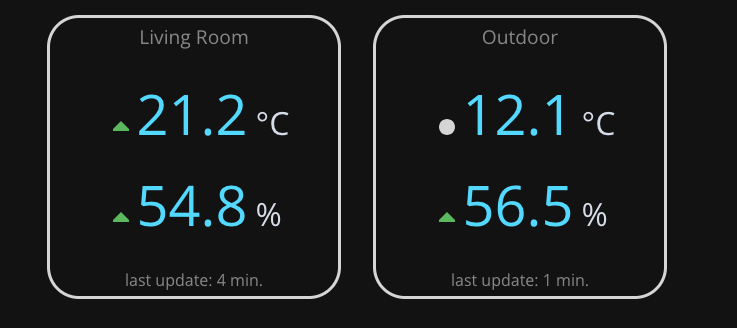
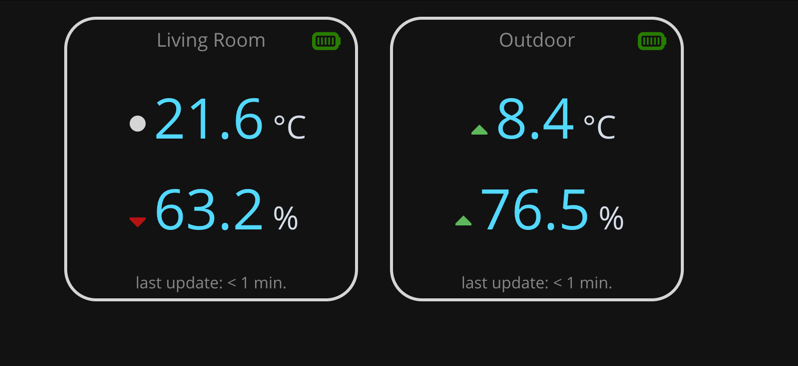
Introduce dynamic battery display

diff --git a/smartapp/src/main/frontend/themes/smarthome/all.css b/smartapp/src/main/frontend/themes/smarthome/all.css
@@ -15,6 +15,9 @@
   --smarthome-font-size-06: 2rem;
   --smarthome-font-size-07: 2.5rem;
   --smarthome-font-size-08: 3.5rem;
+  --smarthome-color-status-ok: #287c01;
+  --smarthome-color-status-warning: #707000;
+  --smarthome-color-status-alert: #830000;
 }
 
 @media (prefers-color-scheme: dark) {
@@ -55,9 +58,15 @@ body {
 .display-title {
   color: var(--smarthome-color-dark-font);
   font-size: var(--smarthome-font-size-04);
+  display: grid;
+  grid-template-columns: 1fr 60% 1fr;
+  padding-top: 0.2rem;
+}
+
+.grid-cell-header {
   display: flex;
   justify-content: center;
-  padding-top: 0.2rem;
+  align-items: center;
 }
 
 .display-footer {
@@ -108,6 +117,10 @@ body {
   height: 1rem;
 }
 
+.image-size-m {
+  width: 1.8rem;
+}
+
 .main {
   display: flex;
   justify-content: center;
@@ -128,6 +141,21 @@ body {
 .left-column, .right-column {
   flex: 1;
 }
+
+.status-ok {
+  color: var(--smarthome-color-status-ok);
+}
+
+.status-warning {
+  color: var(--smarthome-color-status-warning);
+
+}
+
+.status-alert {
+  color: var(--smarthome-color-status-alert);
+}
+
+
 
 @media (max-width: 768px) {
 

diff --git a/smartapp/src/main/java/edu/stevenfil/smart/smartapp/frontend/sensor/SimpleClimateSensorDisplay.java b/smartapp/src/main/java/edu/stevenfil/smart/smartapp/frontend/sensor/SimpleClimateSensorDisplay.java
@@ -26,7 +26,7 @@ public class SimpleClimateSensorDisplay extends Div {
   private Div temperatureContainer;
   private Div humidityContainer;
 
-  private Div displayTitle;
+  private Div displayHeader;
   private Div displayContent;
   private Div displayFooter;
 
@@ -38,8 +38,8 @@ public class SimpleClimateSensorDisplay extends Div {
     addClassNames("flex", "flex-vertical", "flex-grow");
     addClassName("display-item-small");
 
-    displayTitle = new Div();
-    displayTitle.addClassName("display-title");
+    displayHeader = new Div();
+    displayHeader.addClassName("display-title");
 
     displayContent = new Div();
     displayContent.addClassName("display-content");
@@ -47,18 +47,37 @@ public class SimpleClimateSensorDisplay extends Div {
     displayFooter = new Div();
     displayFooter.addClassName("display-footer");
 
-    add(displayTitle, displayContent, displayFooter);
+    add(displayHeader, displayContent, displayFooter);
 
     var title = new Span("Display Title");
-    displayTitle.add(title);
 
     var dynamicTitle = new DynamicStringValue(title);
 
-    var trendTemp = new Svg(getClass().getResourceAsStream("/static/images/circle-svgrepo-com.svg"));
+    var batteryStatus = new Svg(
+        getClass().getResourceAsStream("/static/images/battery/alt-battery-5-svgrepo-com.svg"));
+    batteryStatus.addClassNames("image-size-m");
+    var dynamicBattery = new DynamicBattery(batteryStatus);
+    Div leftHeaderCell = new Div();
+    leftHeaderCell.addClassName("grid-cell-header");
+
+    Div rightHeaderCell = new Div();
+    rightHeaderCell.addClassName("grid-cell-header");
+
+    Div middleHeaderCell = new Div();
+    middleHeaderCell.addClassName("grid-cell-header");
+
+    middleHeaderCell.add(title);
+    rightHeaderCell.add(batteryStatus);
+
+    displayHeader.add(leftHeaderCell, middleHeaderCell, rightHeaderCell);
+
+    var trendTemp = new Svg(
+        getClass().getResourceAsStream("/static/images/circle-svgrepo-com.svg"));
     trendTemp.addClassName("image-size-s");
     trendTemp.addClassName("svg-color-bright");
 
-    var trendHumidity = new Svg(getClass().getResourceAsStream("/static/images/circle-svgrepo-com.svg"));
+    var trendHumidity = new Svg(
+        getClass().getResourceAsStream("/static/images/circle-svgrepo-com.svg"));
     trendHumidity.addClassName("image-size-s");
     trendHumidity.addClassName("svg-color-bright");
 
@@ -87,6 +106,7 @@ public class SimpleClimateSensorDisplay extends Div {
     binder.forField(trendContainerTemp).bindReadOnly(ClimateSensorData::trendTemperature);
     binder.forField(trendContainerHumidity).bindReadOnly(ClimateSensorData::trendHumidity);
     binder.forField(dynamicTimePassed).bindReadOnly(ClimateSensorData::updatedAt);
+    binder.forField(dynamicBattery).bindReadOnly(ClimateSensorData::battery);
     update(sensorData);
   }
 
@@ -94,4 +114,4 @@ public class SimpleClimateSensorDisplay extends Div {
     binder.readBean(climateSensorData);
   }
 
- }
+}

diff --git a/smartapp/src/main/java/edu/stevenfil/smart/smartapp/frontend/sensor/DynamicBattery.java b/smartapp/src/main/java/edu/stevenfil/smart/smartapp/frontend/sensor/DynamicBattery.java
@@ -1,0 +1,61 @@
+package edu.stevenfil.smart.smartapp.frontend.sensor;
+
+import com.vaadin.flow.component.Svg;
+import com.vaadin.flow.component.customfield.CustomField;
+import java.util.Objects;
+
+/**
+ * <b><class short description - 1 Line!></b>
+ *
+ * <p><More detailed description - When to use, what it solves, etc.></p>
+ *
+ * @since <version tag>
+ */
+public class DynamicBattery extends CustomField<Float> {
+
+
+  private final Svg battery;
+
+  public DynamicBattery(Svg battery) {
+    this.battery = Objects.requireNonNull(battery);
+  }
+
+  @Override
+  protected Float generateModelValue() {
+    return 0f;
+  }
+
+  @Override
+  protected void setPresentationValue(Float newPresentationValue) {
+    if (newPresentationValue == null || newPresentationValue.isNaN()) {
+      battery.setSvg(getClass().getResourceAsStream("/static/images/battery/alt-battery-5-svgrepo-com.svg"));
+      return;
+    }
+
+    if (newPresentationValue.compareTo(80f) > 0) {
+      battery.setSvg(getClass().getResourceAsStream("/static/images/battery/alt-battery-5-svgrepo-com.svg"));
+      battery.addClassNames("status-ok");
+      return;
+    }
+
+    if (newPresentationValue.compareTo(60f) > 0) {
+      battery.setSvg(getClass().getResourceAsStream("/static/images/battery/alt-battery-4-svgrepo-com.svg"));
+      battery.addClassNames("status-ok");
+      return;
+    }
+
+    if (newPresentationValue.compareTo(40f) > 0) {
+      battery.setSvg(getClass().getResourceAsStream("/static/images/battery/alt-battery-3-svgrepo-com.svg"));
+      battery.addClassNames("status-ok");
+      return;
+    }
+
+    if (newPresentationValue.compareTo(20f) > 0) {
+      battery.setSvg(getClass().getResourceAsStream("/static/images/battery/alt-battery-2-svgrepo-com.svg"));
+      battery.addClassNames("status-warning");
+      return;
+    }
+    battery.setSvg(getClass().getResourceAsStream("/static/images/battery/alt-battery-0-svgrepo-com.svg"));
+    battery.addClassNames("status-alert");
+    }
+}

diff --git a/smartapp/src/main/java/edu/stevenfil/smart/smartapp/frontend/HomeUI.java b/smartapp/src/main/java/edu/stevenfil/smart/smartapp/frontend/HomeUI.java
@@ -34,7 +34,7 @@ public class HomeUI extends Div {
 
     add(leftColumn, mainColumn, rightColumn);
 
-    UI.getCurrent().setPollInterval(100000);
+    UI.getCurrent().setPollInterval(1000);
 
     setSensorData(service.queryAllSensors());
 
